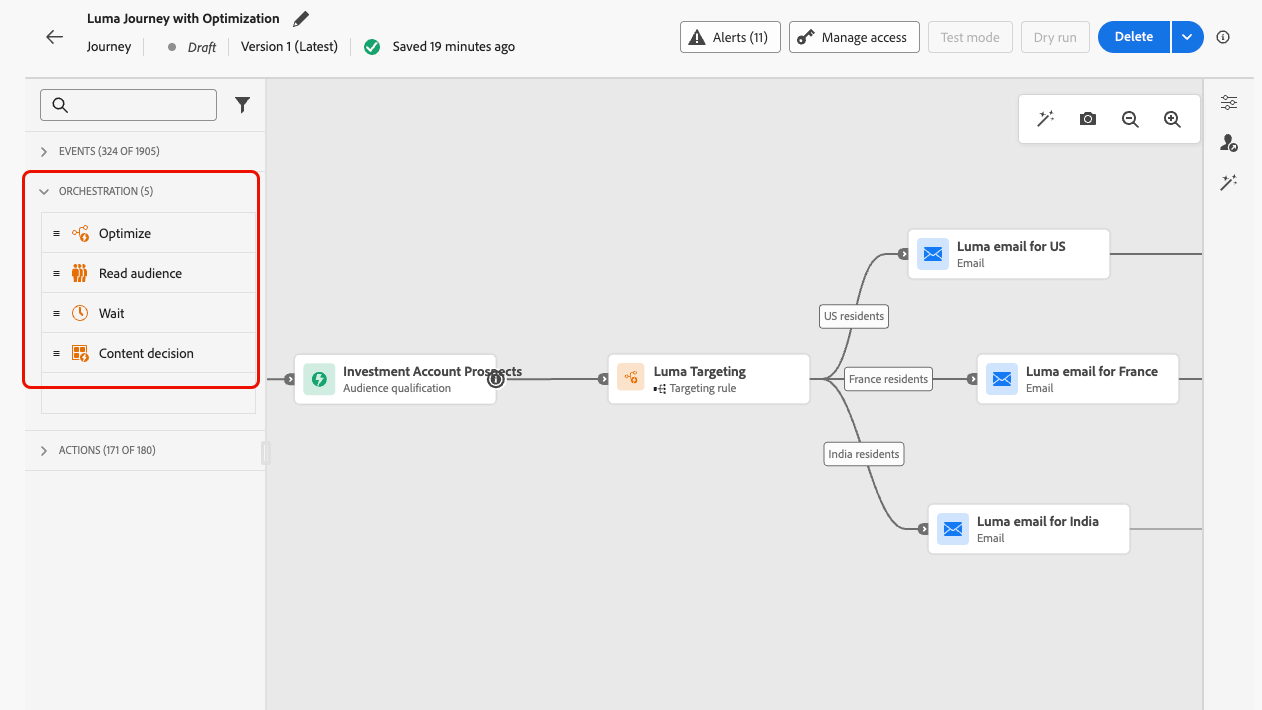
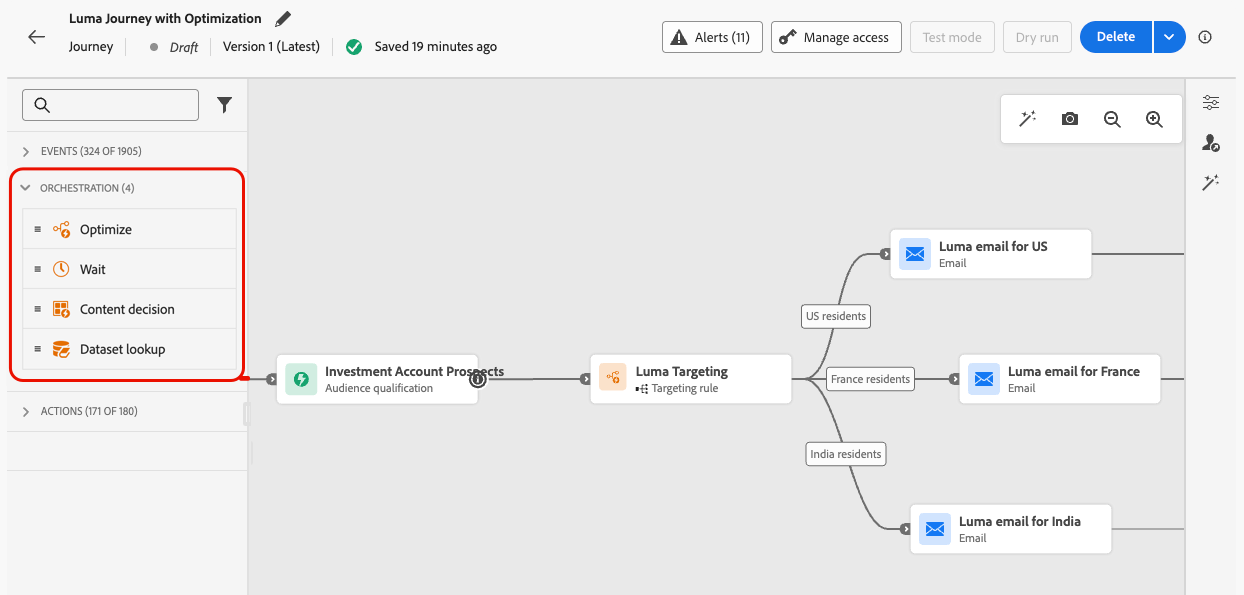
Docac 13388 dataset lookup in journeys (#2077)
* draft

* updates

* update

* updates

* contextual help

* update

* fix

* update note

* fix

* fix

* unhide rn

diff --git a/help/using/building-journeys/dataset-lookup.md b/help/using/building-journeys/dataset-lookup.md
@@ -1,0 +1,174 @@
+---
+solution: Journey Optimizer
+product: journey optimizer
+title: Use Adobe Experience Platform data in journeys
+description: Learn how to use the Dataset Lookup Activity in Adobe Journey Optimizer to enrich customer journeys with external data from Adobe Experience Platform.
+feature: Journeys, Activities
+topic: Content Management
+role: User
+level: Intermediate
+version: Journey Orchestration
+---
+
+# Use [!DNL Adobe Experience Platform] data in journeys {#datalookup}
+
+>[!CONTEXTUALHELP]
+>id="ajo_journey_dataset_lookup"
+>title="Dataset lookup activity"
+>abstract="The **[!UICONTROL Dataset lookup]** activity allows you to to dynamically retrieve data from Adobe Experience Platform record datasets during runtime. By leveraging this capability, you can access data that may not reside in the profile or event payload, ensuring your customer interactions are both relevant and timely."
+
+The **[!UICONTROL Dataset lookup]** activity allows you to to dynamically retrieve data from Adobe Experience Platform record datasets during runtime. By leveraging this capability, you can access data that may not reside in the profile or event payload, ensuring your customer interactions are both relevant and timely.
+
+Key Benefits:
+
+* **Real-Time personalization**: Tailor customer experiences using enriched data.
+* **Dynamic decision-making**: Use external data to drive journey logic and actions.
+* **Enhanced data Access**: Retrieve product metadata, pricing tables, or relational data tied to specific keys.
+
+>[!AVAILABILITY]
+>
+>This activity is only available for a set of organizations (Limited Availability). To gain access, contact your Adobe representative.
+
+## Must-read {#must-read}
+
+### Dataset enablement
+
+The dataset must be enabled for lookup in Adobe Experience Platform. Detailed information are available in this section: [Use Adobe Experience Platform data](../data/lookup-aep-data.md). 
+
+### Limits & restrictions
+
+* Maximum of 10 Dataset Lookup activities per journey.
+* Maximum of 20 selected fields.
+* Maximum of 500 keys in the lookup keys array.
+* Enriched data size is limited to 10KB.
+
+## Configure the Dataset lookup activity {#configure}
+
+To configure the **[!UICONTROL Dataset lookup]** activity, follow these steps:
+
+1. Unfold the **[!UICONTROL Orchestration]** category and drop a **[!UICONTROL Dataset lookup]** activity into your canvas.
+
+   ![](assets/aep-data-activity.png)
+
+1. Add a label and description.
+
+1. In the **[!UICONTROL Dataset]** field, select the dataset with the attributes you need.
+
+   >[!NOTE]
+   >
+   >If the dataset you are looking for does not display in the list, make sure you have enabled it for lookup. For more details, refer to the [Must read](#must-read) section.
+
+1. Select the specific fields you want to fetch from the dataset.
+
+   * You can only select leaf nodes (fields at the lowest level of the schema). The field must be a primitive value (string, number, boolean, date, etc.).
+
+   * Lists (arrays) and maps (key–value objects) cannot be selected.
+
+   +++Example
+   
+   ![](assets/aep-data-leaf-primitive.png)
+   
+   +++
+
+1. In the **[!UICONTROL Lookup key(s)]** field, choose a joining key that exists in both the decision item attributes and the dataset. This key is used by the system to search in the selected dataset.
+
+   * Keys can be expressions derived from the journey context, such as SKUs, email IDs, or other identifiers. Example: `@profile.email` or `list(@event{purchase_event.products.sku})`.
+
+   * Only **strings** or **lists of strings** are supported.
+   
+   +++Example
+   
+   ![](assets/aep-data-strings.png)
+
+   +++
+
+## Use enriched data in the journey
+
+The data retrieved by the **[!UICONTROL Dataset lookup]** activity is stored in the Journey context as an array of objects. It is available in the journey expression editor and personalization editor, enabling conditional logic and personalized messaging based on enriched data. 
+
+* **Journey Expression Editor**:
+
+   Access the **[!UICONTROL Advanced mode]** editor and use the syntax: `@datasetLookup{MyDatasetLookUpActivity1.entities}`. [Learn how to work with the advanced expression editor](../building-journeys/expression/expressionadvanced.md)
+
+* **Personalization Editor**:
+
+   Use the syntax: `{{context.journey.datasetLookup.1482319411.entities}}`.
+
+>[!NOTE]
+>
+>Enriched data is transient and available only during the runtime of the journey, and in the personalization of outbound activities (Email, Push, SMS, etc.)
+
+## Examples of use cases
+
++++Product Category-Based Filtering
+
+**Scenario**:Send a coupon to users who spend more than $40 on household products.
+
+**Journey flow**:
+
+1. **Purchase Event**: Capture SKUs from the user's cart.
+
+1.  **Dataset lookup activity**:
+   * Dataset: `products-dataset` (SKU as the primary key).
+   * Lookup Keys: `list(@event{purchase_event.products.sku})`.
+   * Fields to Return: `["SKU", "category", "price"]`.
+   
+1. **Condition activity**:
+
+   * Filter SKUs where the category is "household".
+
+      ```
+      @event{purchase_event.products.all( in(currentEventField.sku, @datasetlookup{MyDatasetLookupActivity1.entities.all(currentDatasetLookupField.category == ‘household’).sku} ) )} 
+      ```
+
+   OR
+
+   * Aggregate the total spend on household products and compare it to the $40 threshold.
+
+      ```
+      sum(@event{purchase_event.products.all( in(currentEventField.sku, @datasetlookup{MyDatasetLookUpActivity1.entities.all(currentDatasetLookupField.category == ‘household’).sku} ) )}.price}, ',', true ) > 40
+      ```
+
+1. **Personalization Editor**:
+
+   Use the enriched data to personalize the email content:
+
+   ```
+   {% let householdTotal = 0 %}
+   {{#each journey.datasetlookup.3709000.entities as |product|}}
+   {%#if get(product, "category") = "household"%}
+   {% let householdTotal = householdTotal + product.price %}{%/if%}
+   {{/each}}
+   "Hi, thanks for spending " + {%= householdTotal %} + " on household products. Here is your reward!"
+   ```
+
++++
+
++++Personalization using external loyalty data
+
+**Scenario**: Identify which email account for a profile has a Loyalty Status of Platinum. In this scenario, loyalty account is associated to an email ID and loyalty data is not available in the standard profile lookup store.  
+
+**Journey flow**:
+
+1. **Profile Event Trigger**: Capture email IDs from the profile or event context.
+
+1. **Dataset Lookup activity**:
+   * Dataset: `loyalty-member-dataset` (email as the primary key).
+   * Lookup Keys: `@profile.email`.
+   * Fields to Return: `["email", "loyaltyTier"]`.
+
+1. **Condition activity**:
+
+   Branch the journey based on the loyalty tier:
+
+   ```
+   @datasetLookup{MyDatasetLookUpActivity1.entity.loyaltyMember.loyaltyTier} == 'Platinum'
+   ```
+
+1. **Personalization Editor**:
+
+   Use the enriched loyalty tier data to personalize outbound communication:
+    
+   ```
+   {{context.journey.datasetLookup.1482319411.entity.loyaltyMember.loyaltyTier}}
+   ```

diff --git a/help/using/data/lookup-aep-data.md b/help/using/data/lookup-aep-data.md
@@ -17,13 +17,13 @@ exl-id: 44a8bc87-5ab0-45cb-baef-e9cd75432bde
 >[!CONTEXTUALHELP]
 >id="lookup-aep-data"
 >title="Enable for lookup"
->abstract="Enableing a dataset for lookup allows you to leverage its data with Journey Optimizer personalization and Decisioning capabilities."
+>abstract="Enabling a dataset for lookup allows you to leverage its data within Journey Optimizer personalization, Decisioning and journey orchestration capabilities."
 
 >[!AVAILABILITY]
 >
 >This feature is currently available to all customers as a limited availability release.
 
-Journey Optimizer allows you to leverage data from Adobe Experience Platform data with personalization and Decisioning capabilities. To do this, record-based datasets needed for lookup personalization must first be enabled for the lookup service as described below.
+Journey Optimizer allows you to leverage data from Adobe Experience Platform data with personalization, Decisioning, and journey orchestration capabilities. To do this, record-based datasets needed for lookup personalization must first be enabled for the lookup service as described below.
 
 ## Must-read
 
@@ -146,12 +146,10 @@ This process indicator helps in understanding when new batches of data are avail
 
 ![](assets/aep-data-monitoring.png)
 
-<!--Ivan Mironchuk
-Note - we have a bug here currently. Will need to update screenshot once the lookup service will accurately reflect the progress.-->
-
 ## Next steps
 
 After a dataset has been enabled for lookup using an API call, you can use the data with [!DNL Journey Optimizer] personalization and Decisioning capabilities. For more information, refer to these sections:
 
 * [Use Adobe Experience Platform data for personalization](../personalization/aep-data-perso.md)
 * [Use Adobe Experience Platform data for decisioning](../experience-decisioning/aep-data-exd.md)
+* [Use Adobe Experience Platform data for journey orchestration](../building-journeys/dataset-lookup.md)

diff --git a/help/TOC.md b/help/TOC.md
@@ -74,18 +74,19 @@ solution: Journey Optimizer
     + [Reaction](using/building-journeys/reaction-events.md)
     + [Audience qualification](using/building-journeys/audience-qualification-events.md)
     + [Optimize](using/building-journeys/optimize.md)
-    + [Read audience](using/building-journeys/read-audience.md)
-    + [Wait](using/building-journeys/wait-activity.md)
     + [Conditions](using/building-journeys/conditions.md)
     + [Condition](using/building-journeys/condition-activity.md)
+    + [Read audience](using/building-journeys/read-audience.md)
+    + [Wait](using/building-journeys/wait-activity.md)
     + [Content decision](using/building-journeys/content-decision.md)
+    + [Dataset lookup](using/building-journeys/dataset-lookup.md)
     + [Action](using/building-journeys/journey-action.md)
     + [Built-in channel actions](using/building-journeys/journeys-message.md)
+    + [Jump](using/building-journeys/jump.md)
+    + [Update profile](using/building-journeys/update-profiles.md)
     + [Custom actions](using/building-journeys/using-custom-actions.md)
     + [Adobe Campaign Standard actions](using/building-journeys/using-adobe-campaign-standard.md)
     + [Adobe Campaign v7/v8 actions](using/building-journeys/using-adobe-campaign-v7-v8.md)
-    + [Jump](using/building-journeys/jump.md)
-    + [Update profile](using/building-journeys/update-profiles.md)
   + Build expressions {#building-advanced-conditions-journeys}
     + [Build expressions](/help/rp_landing_pages/building-advanced-conditions-journeys-landing-page.md)
     + [Work with the advanced expression editor](using/building-journeys/expression/expressionadvanced.md)

diff --git a/help/using/rn/release-notes.md b/help/using/rn/release-notes.md
@@ -279,10 +279,10 @@ exl-id: 06fa956a-b500-416e-9d42-b683c328e837
 * **Model-based Schemas**  
   Model-based schemas can now be used by to support your relational modeling needs in Orchestrated campaigns. [Read more](../orchestrated/gs-schemas.md)
 
-<!--* **Dataset lookup support in journeys**  
-  A new activity in journeys, **Dataset lookup**, allows you to dynamically retrieve data from Adobe Experience Platform record datasets during runtime. By leveraging this capability, you can access data that may not reside in the profile or event payload, ensuring your customer interactions are both relevant and timely.
+* **Dataset lookup support in journeys**  
+  A new activity in journeys, **Dataset lookup**, allows you to dynamically retrieve data from Adobe Experience Platform record datasets during runtime. By leveraging this capability, you can access data that may not reside in the profile or event payload, ensuring your customer interactions are both relevant and timely. [Read more](../building-journeys/dataset-lookup.md)
 
-  This activity is only available for a set of organizations (Limited Availability). To gain access, contact your Adobe representative.-->
+  This activity is only available for a set of organizations (Limited Availability). To gain access, contact your Adobe representative.
 
 * **Simulating content variations for all inbound channels**  
   Previously only available for the Email, SMS, and Push notification channels, simulating content variations now also applies to all inbound channels. [Read more](../test-approve/simulate-sample-input.md)

diff --git a/help/using/personalization/aep-data-perso.md b/help/using/personalization/aep-data-perso.md
@@ -19,7 +19,7 @@ exl-id: 2fc10fdd-ca9e-46f0-94ed-2d7ea4de5baf
 >
 >For now, the "datasetLookup" helper function can be used within expression fragments for a limited set of customers. To gain access, contact your Adobe representative.
 
-Journey Optimizer allows you to leverage data from Adobe Experience Platform record datasets in the personalization editor to [personalize your content](../personalization/personalize.md). Before starting, datasets needed for lookup personalization must first be enabled for lookup. Detailed information are available in this section:  [Use Adobe Experience Platform data](../data/lookup-aep-data.md).
+Journey Optimizer allows you to leverage data from Adobe Experience Platform record datasets in the personalization editor to [personalize your content](../personalization/personalize.md). Before starting, datasets needed for lookup personalization must first be enabled for lookup. Detailed information are available in this section: [Use Adobe Experience Platform data](../data/lookup-aep-data.md).
 
 Once a dataset has been enabled for lookup personalization, you can use its data to personalize your content into [!DNL Journey Optimizer].
 

diff --git a/help/using/start/user-interface.md b/help/using/start/user-interface.md
@@ -349,10 +349,3 @@ Just starting with [!DNL Journey Optimizer]? Experienced user with specific ques
 >id="ajo_journey_business_rules"
 >title="Rule set"
 >abstract="Rule set"
-
-<!-- DATASET LOOKUP IN JOURNEYS -->
-
->[!CONTEXTUALHELP]
->id="ajo_journey_dataset_lookup"
->title="Dataset lookup activity"
->abstract="The **[!UICONTROL Dataset lookup]** activity allows you to to dynamically retrieve data from Adobe Experience Platform record datasets during runtime. By leveraging this capability, you can access data that may not reside in the profile or event payload, ensuring your customer interactions are both relevant and timely."

diff --git a/help/using/building-journeys/about-journey-activities.md b/help/using/building-journeys/about-journey-activities.md
@@ -41,6 +41,7 @@ From the palette, on the left-hand side of the screen, the following orchestrati
 * [Read Audience](read-audience.md)
 * [Wait](wait-activity.md)
 * [Content decision](content-decision.md)
+* [Dataset lookup](dataset-lookup.md)
 
 ![Orchestration activities palette in the journey designer](assets/journey-orchestration-activities.png)
 
